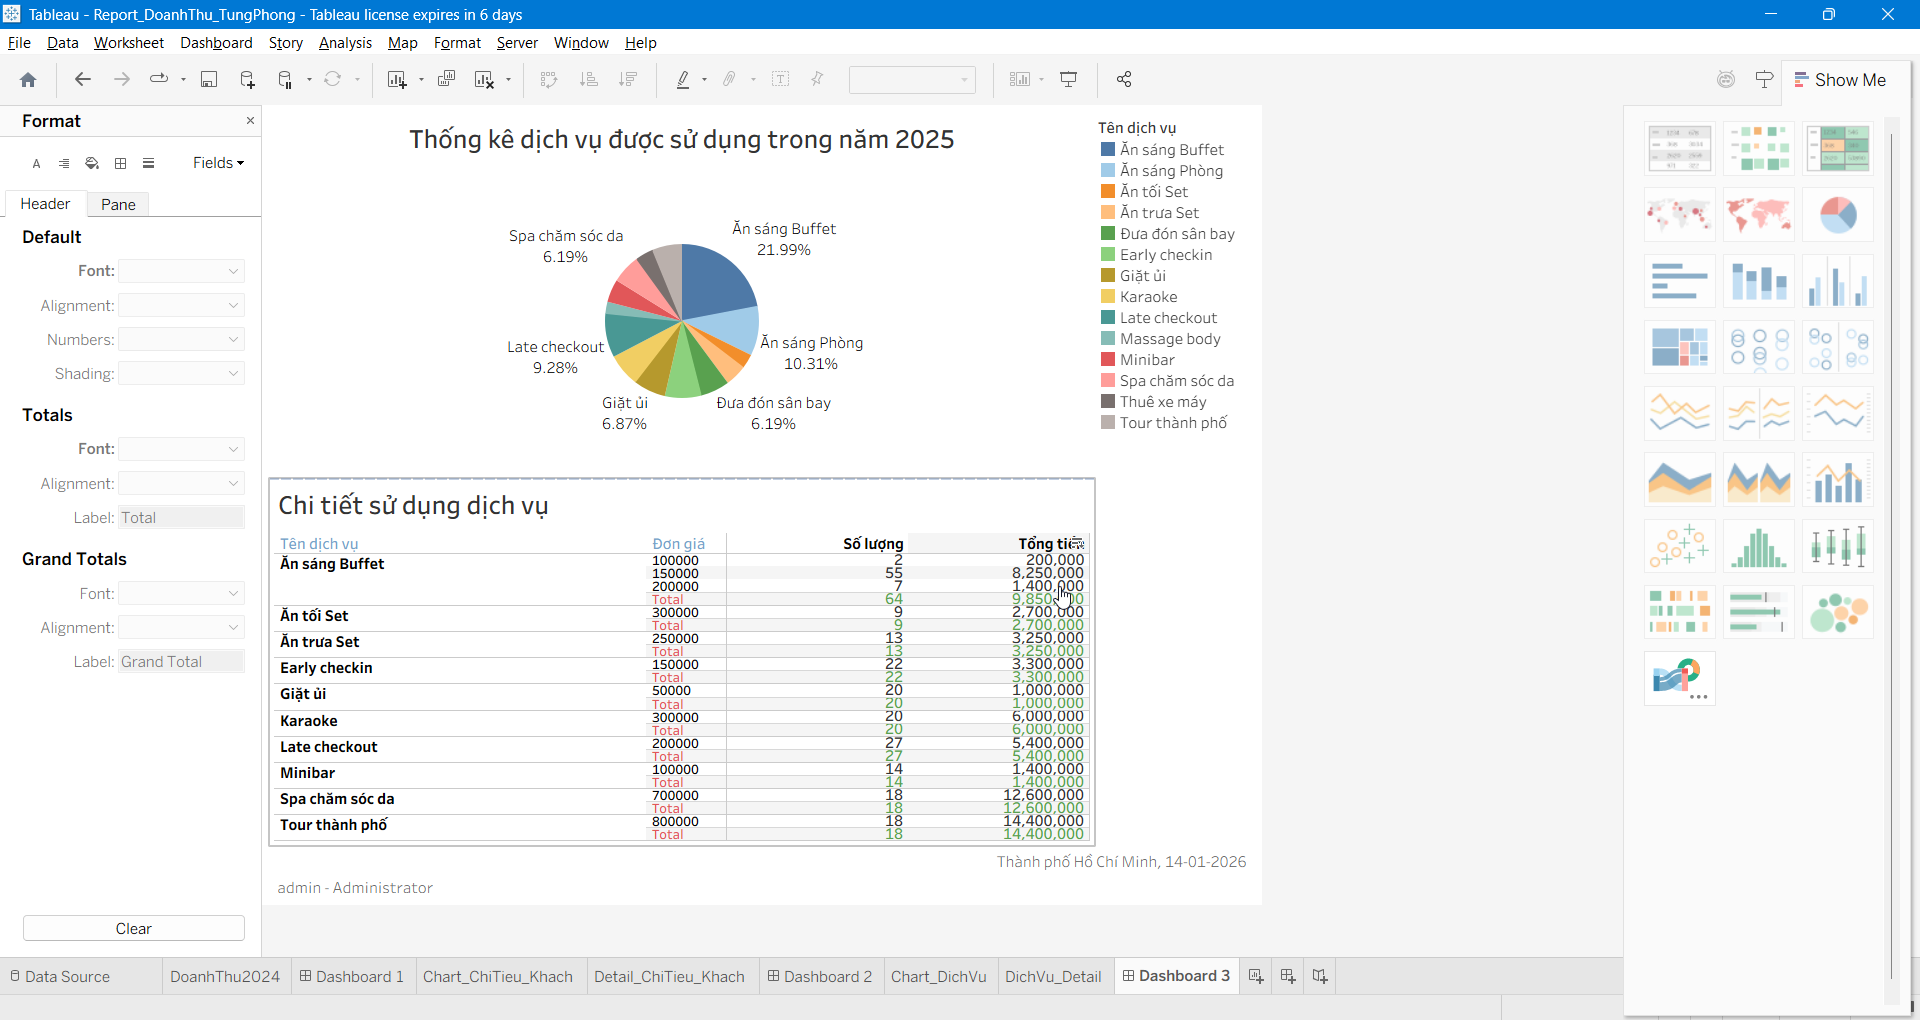
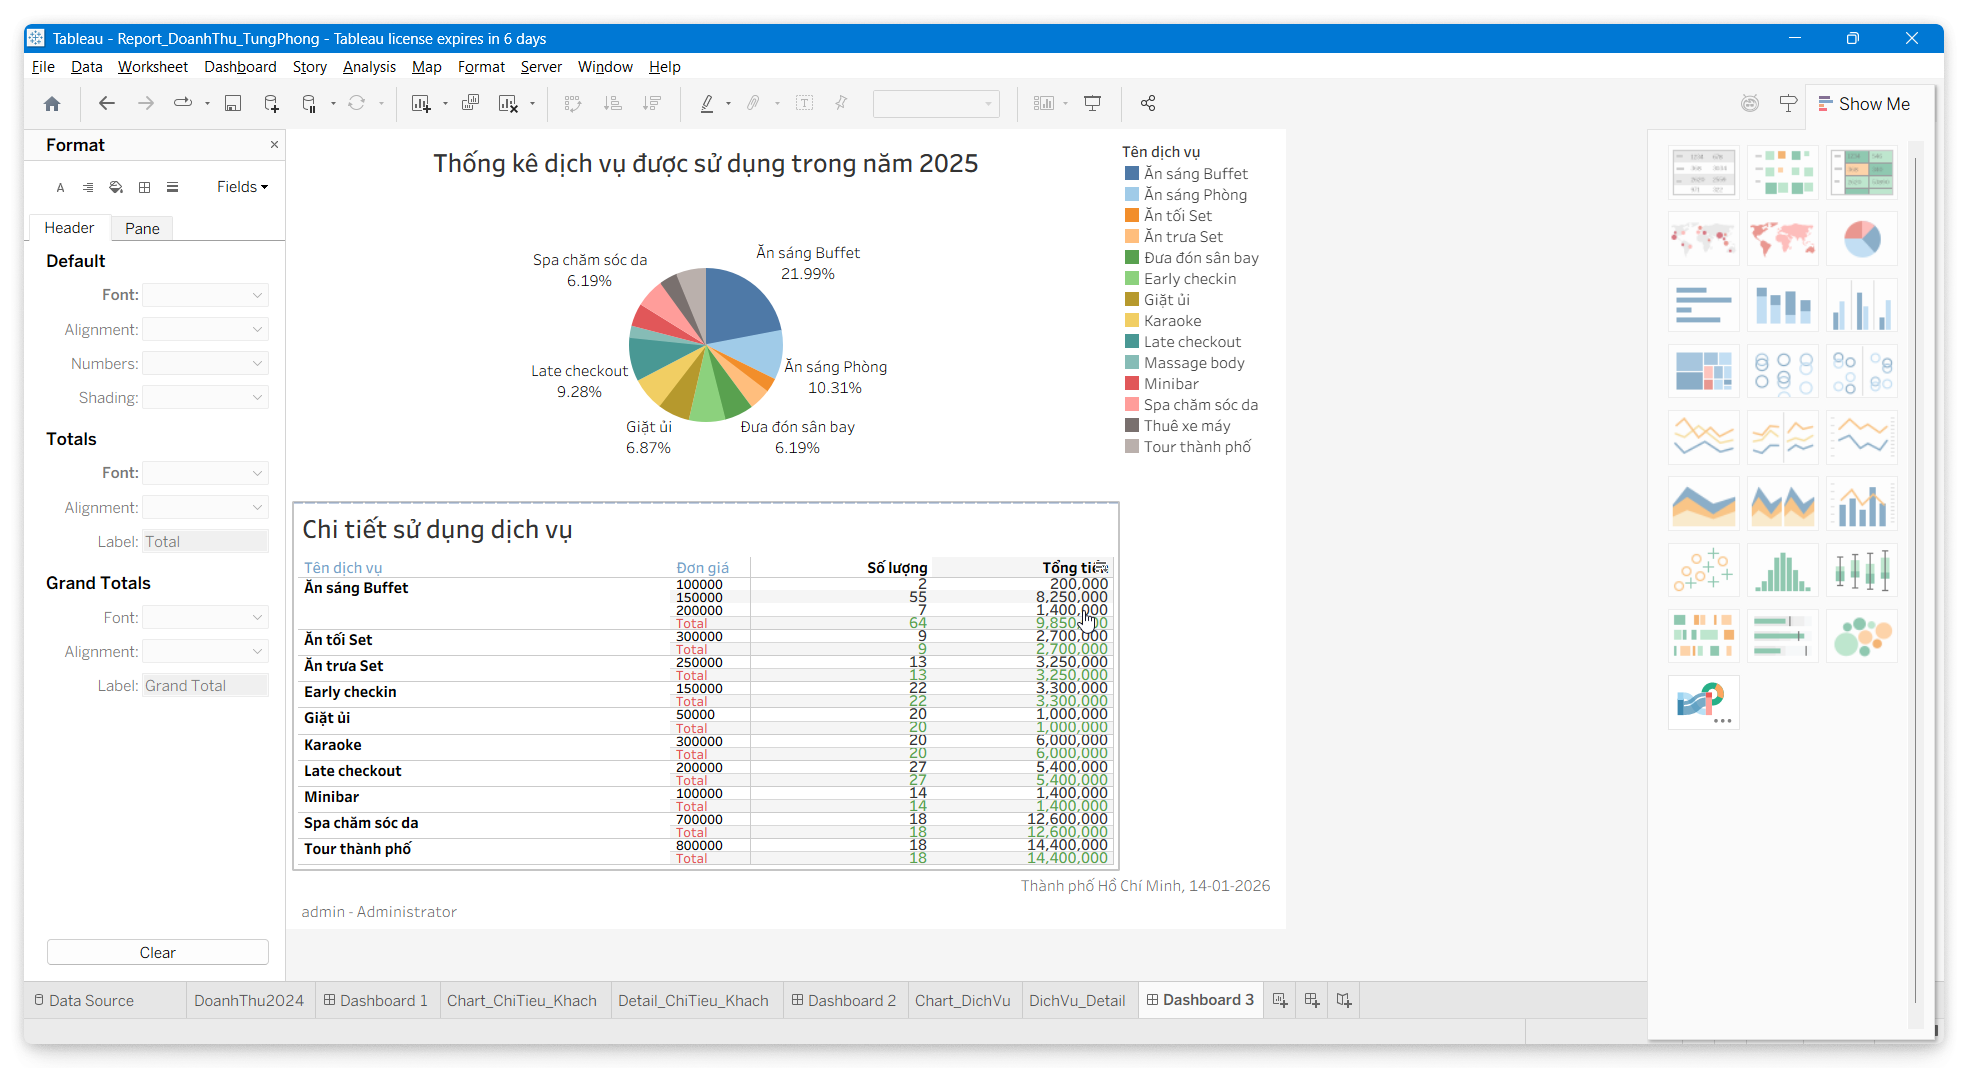
Thống Kê Doanh Thu Dịch Vụ

diff --git a/noi-dung/04-quan-ly-thong-tin/trinh-bay-tong-tin/reports/reports.md b/noi-dung/04-quan-ly-thong-tin/trinh-bay-tong-tin/reports/reports.md
@@ -185,10 +185,11 @@ GO
 
 ## 3. Thống kê xem dịch vụ nào được khách sử dụng nhiều, và nó mang lại bao nhiêu tiền trong năm 2024
 
-Để xác định "services nào được ưa chuộng nhất" (Best Seller) sẽ giúp quản lý biết đường nhập hàng và đẩy mạnh khuyến mãi.
-Vì mỗi dịch vụ thời giá sẽ khác nhau nên ở table chi tiết ta sẽ thống kê từng đơn giá của dịch vụ.
+- Để xác định "services nào được ưa chuộng nhất" (Best Seller) sẽ giúp quản lý biết đường nhập hàng và đẩy mạnh khuyến mãi.
+- Vì mỗi dịch vụ thời giá sẽ khác nhau nên ở table chi tiết ta sẽ thống kê từng đơn giá của dịch vụ.
 
 #### 3.1 Tạo View
+
 ```sql
 CREATE OR ALTER VIEW V_REPORT_TOP_SERVICE_2024 AS
 SELECT
@@ -234,7 +235,7 @@ GO
 
 ![Ví dụ](./images/rpt3-6.png)
 
-#### 3.6 Màn hình preview  sheet table chi tiết
+#### 3.6 Màn hình preview sheet table chi tiết
 
 ![Ví dụ](./images/rpt3-7.png)
 

diff --git a/baocao/content/chapter04-03-trinhbaythongtin.md b/baocao/content/chapter04-03-trinhbaythongtin.md
@@ -101,3 +101,24 @@ Các bước thực hiện:
 ![Report 2 - Màn Hình Design](./images/rpt2-10.png)
 
 ![Report 2 - Màn Hình Preview](./images/rpt2-11.png)
+
+#### Báo Cáo 03 - Thống Kê Doanh Thu Dịch Vụ
+
+Miêu tả:
+
+- Để xác định "services nào được ưa chuộng nhất" (Best Seller) sẽ giúp quản lý có kế hoạch nhập hàng và đẩy mạnh khuyến mãi.
+- Vì mỗi dịch vụ thời giá sẽ khác nhau nên ở table chi tiết ta sẽ thống kê từng đơn giá của dịch vụ.
+
+Các bước thực hiện:
+
+1. Tạo View lấy danh sách Dịch Vụ Yêu Thích Nhất (`V_REPORT_TOP_SERVICE_2024`).
+2. Kết nối Tableu vào database.
+3. Kéo view `V_REPORT_TOP_SERVICE_2024` vào Canvas.
+4. Mapping dữ liệu từ View `V_REPORT_TOP_SERVICE_2024` để tạo chart line:
+5. Tạo Sheet hiển thị table chi tiết.
+
+Màn hình design và preview dashboard:
+
+![Report 3 - Màn Hình Design](./images/rpt3-8.png)
+
+![Report 3 - Màn Hình Preview](./images/rpt3-9.png)
